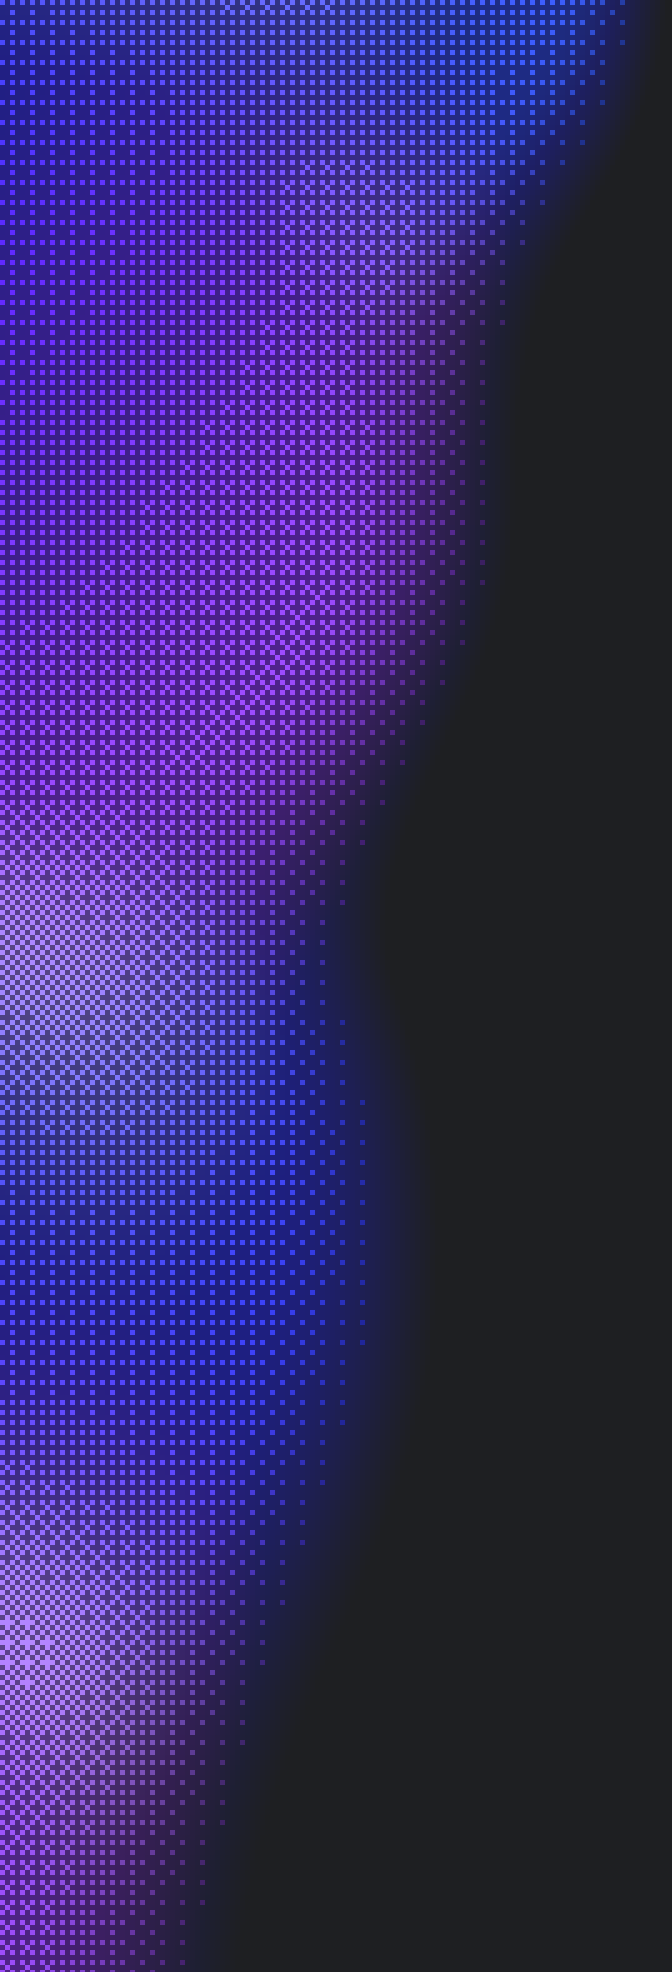
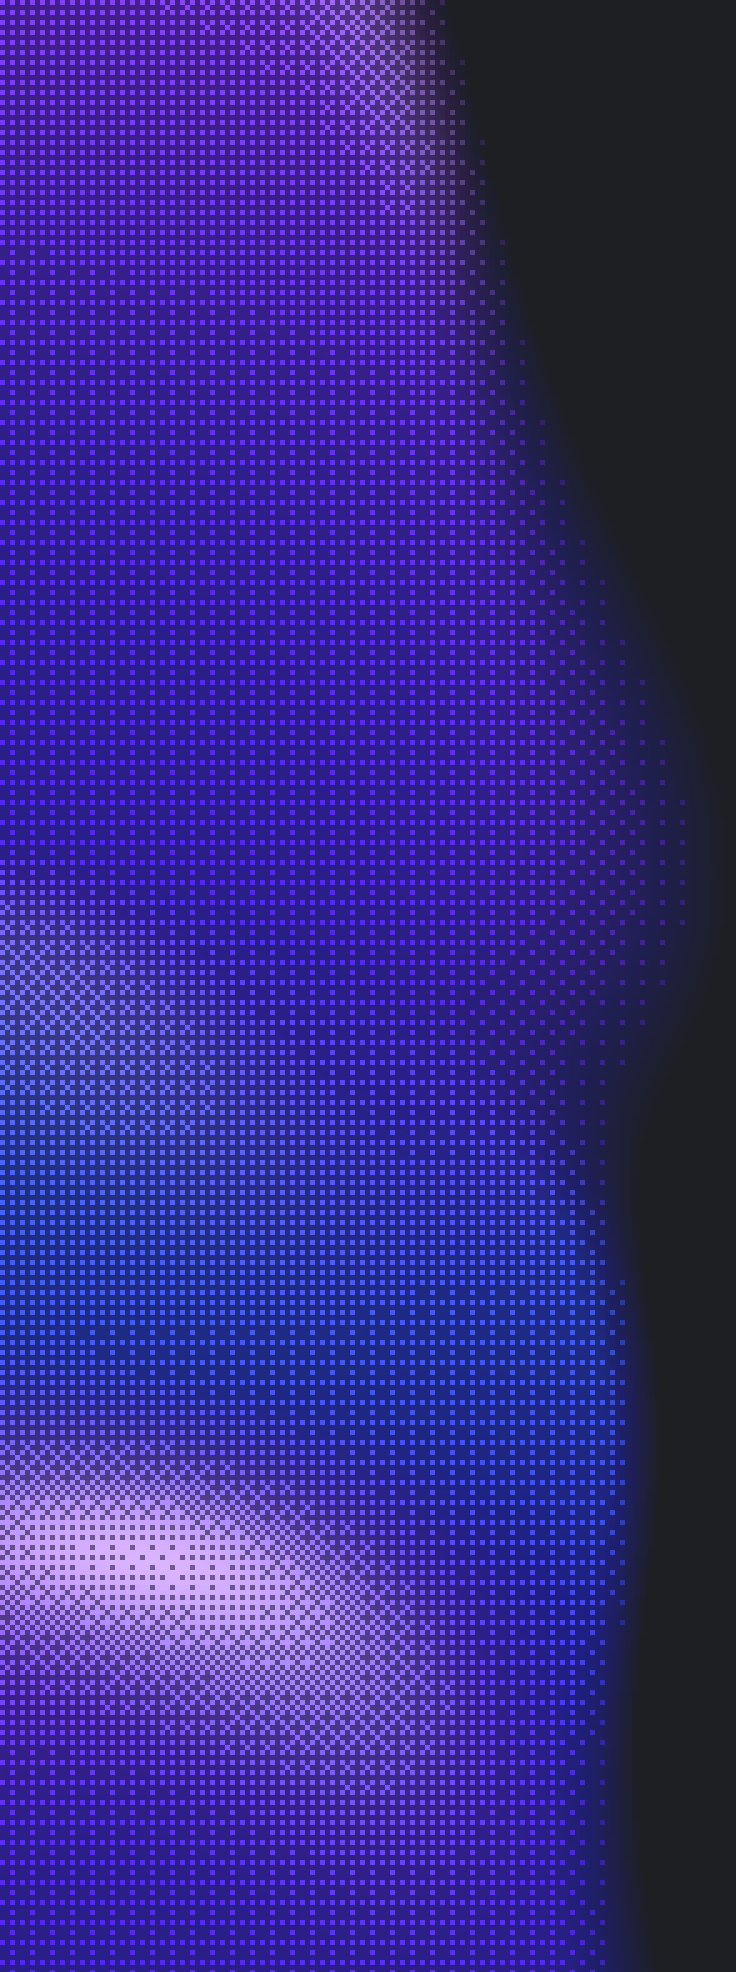
feat(web): Westworld blob dither deforms fully and reseeds into one irregular mass
Two of the four blobs sat at deformation 0.1 and read as stacked circles.
Raise every blob to deformation 1.0 at softness 0.5 and reseed them
(7, 33, 64, 12) so the strip reads as one irregular mass hugging the edge.
Same bake: the real WebGPU library, 5px Dither, lightened onto the #1e1f22
card and cropped to the reach of the blobs (67 KB, truecolour).

diff --git a/apps/web/src/theme.custom.westworld.css b/apps/web/src/theme.custom.westworld.css
@@ -74,12 +74,13 @@
    surface, with a blob dither rising from its left edge — Noey's Shaders
    design 4737833 (four static Blobs in #2e37e6→#1877f2 and #a644fc→#5218f2
    under a source-colour Dither, threshold 0.7, spread 0.5) with every blob
-   centre moved 0.20 further left and the Dither's pixel size taken from 14
-   to 5, so the blobs reach about 36% of the card and the dots are fine.
+   deformed to 1.0 at softness 0.5 and reseeded (7, 33, 64, 12) so the four
+   read as one irregular mass, every centre moved 0.20 further left, and the Dither's pixel size taken from 14
+   to 5, so the blobs reach about 39% of the card and the dots are fine.
    Rendered with the real WebGPU library in headful Chrome at 2× on a
    transparent base and lightened onto the card colour — the Dither's dark
    cells are black, so a normal composite would smear black over the card —
-   then cropped to the 336px the blobs reach. It paints as a `left top /
+   then cropped to the 368px the blobs reach. It paints as a `left top /
    auto 100%` layer, so it scales with the card height and the rest of the
    card stays the flat colour. Truecolour on purpose: a 256-colour palette
    bands the glow around the dots.
@@ -104,7 +105,7 @@
 
    westworld-hero.png is the Figma export quantized to 256 colours (octree),
    171 KB against 1.3 MB (no channel more than 14 levels off);
-   westworld-thread.png is the 672×1972 left blob strip, truecolour, 62 KB. */
+   westworld-thread.png is the 736×1972 left blob strip, truecolour, 67 KB. */
 :root[data-fork="noahhendrickson-t3code"].dark[data-fork-theme="cool-dark"]
   [data-chat-workspace-drop-target="true"]::before {
   content: "";
